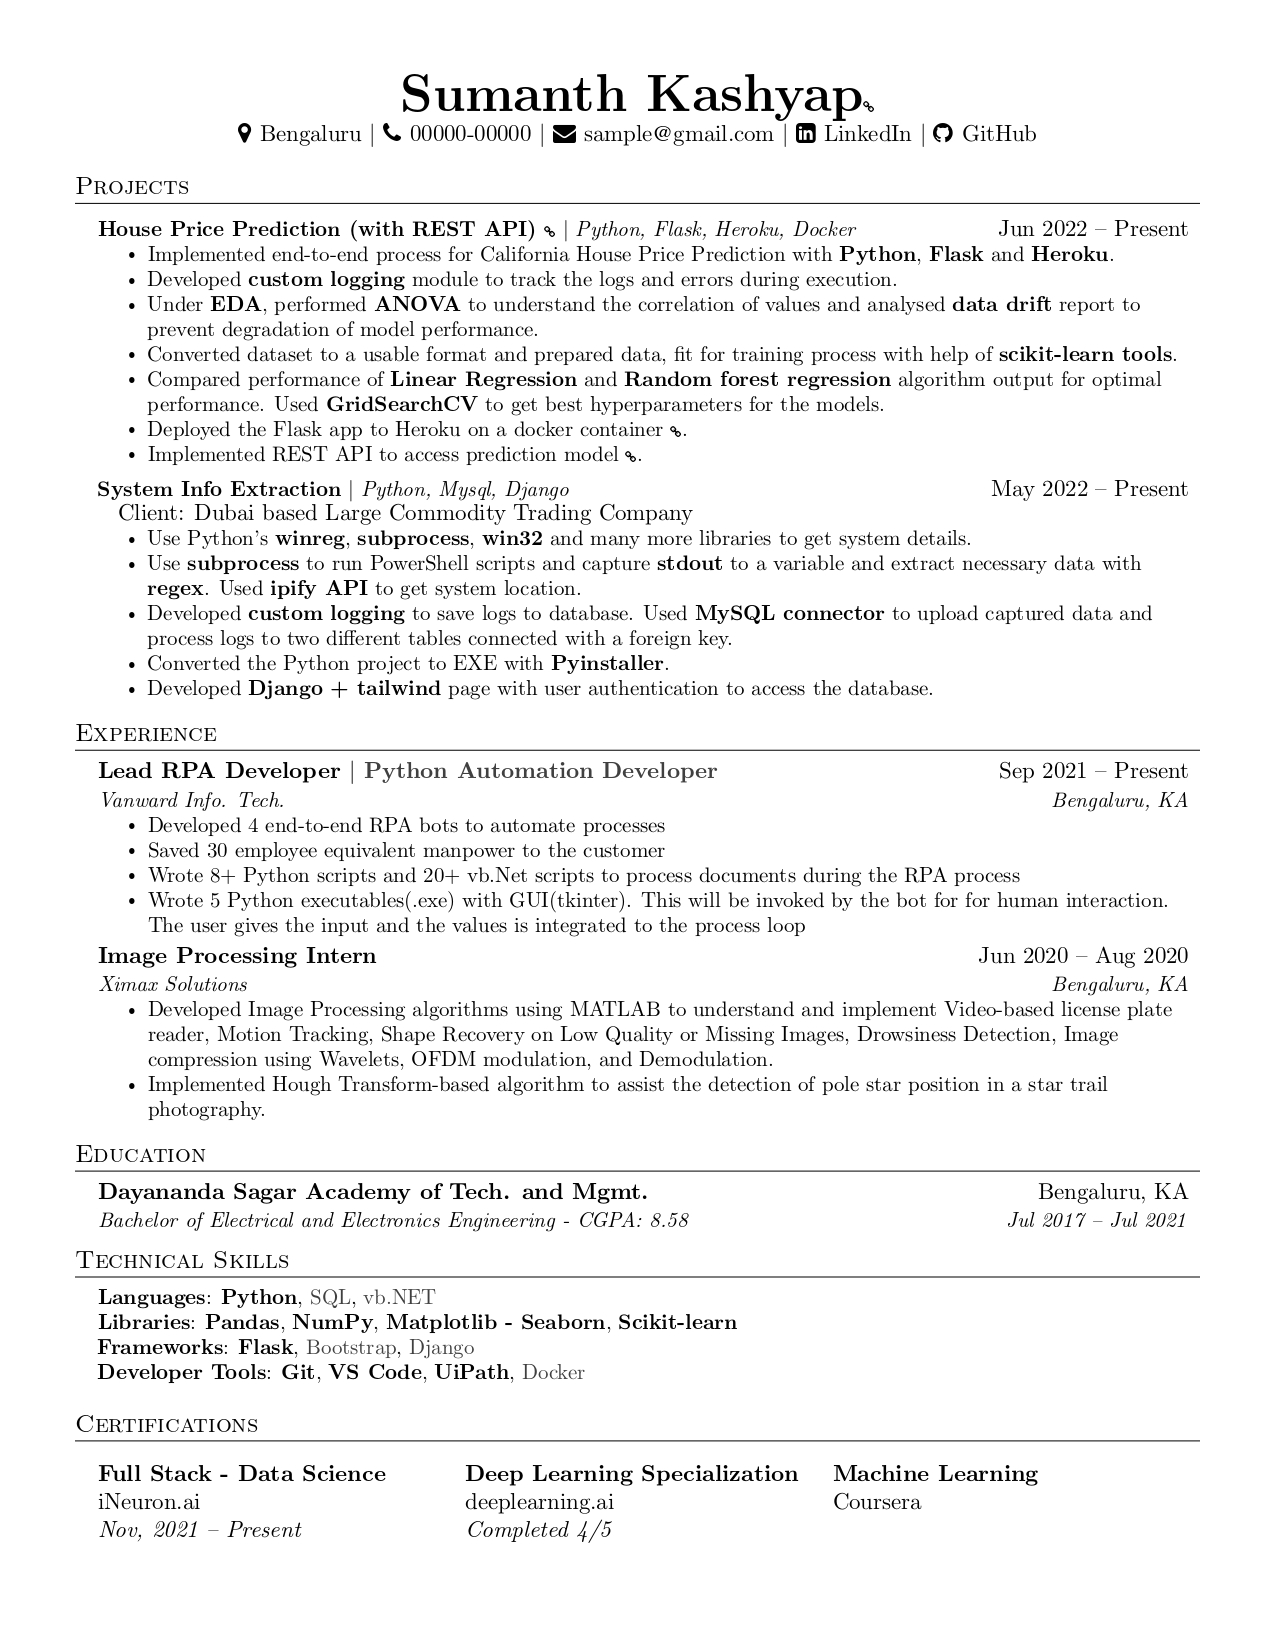
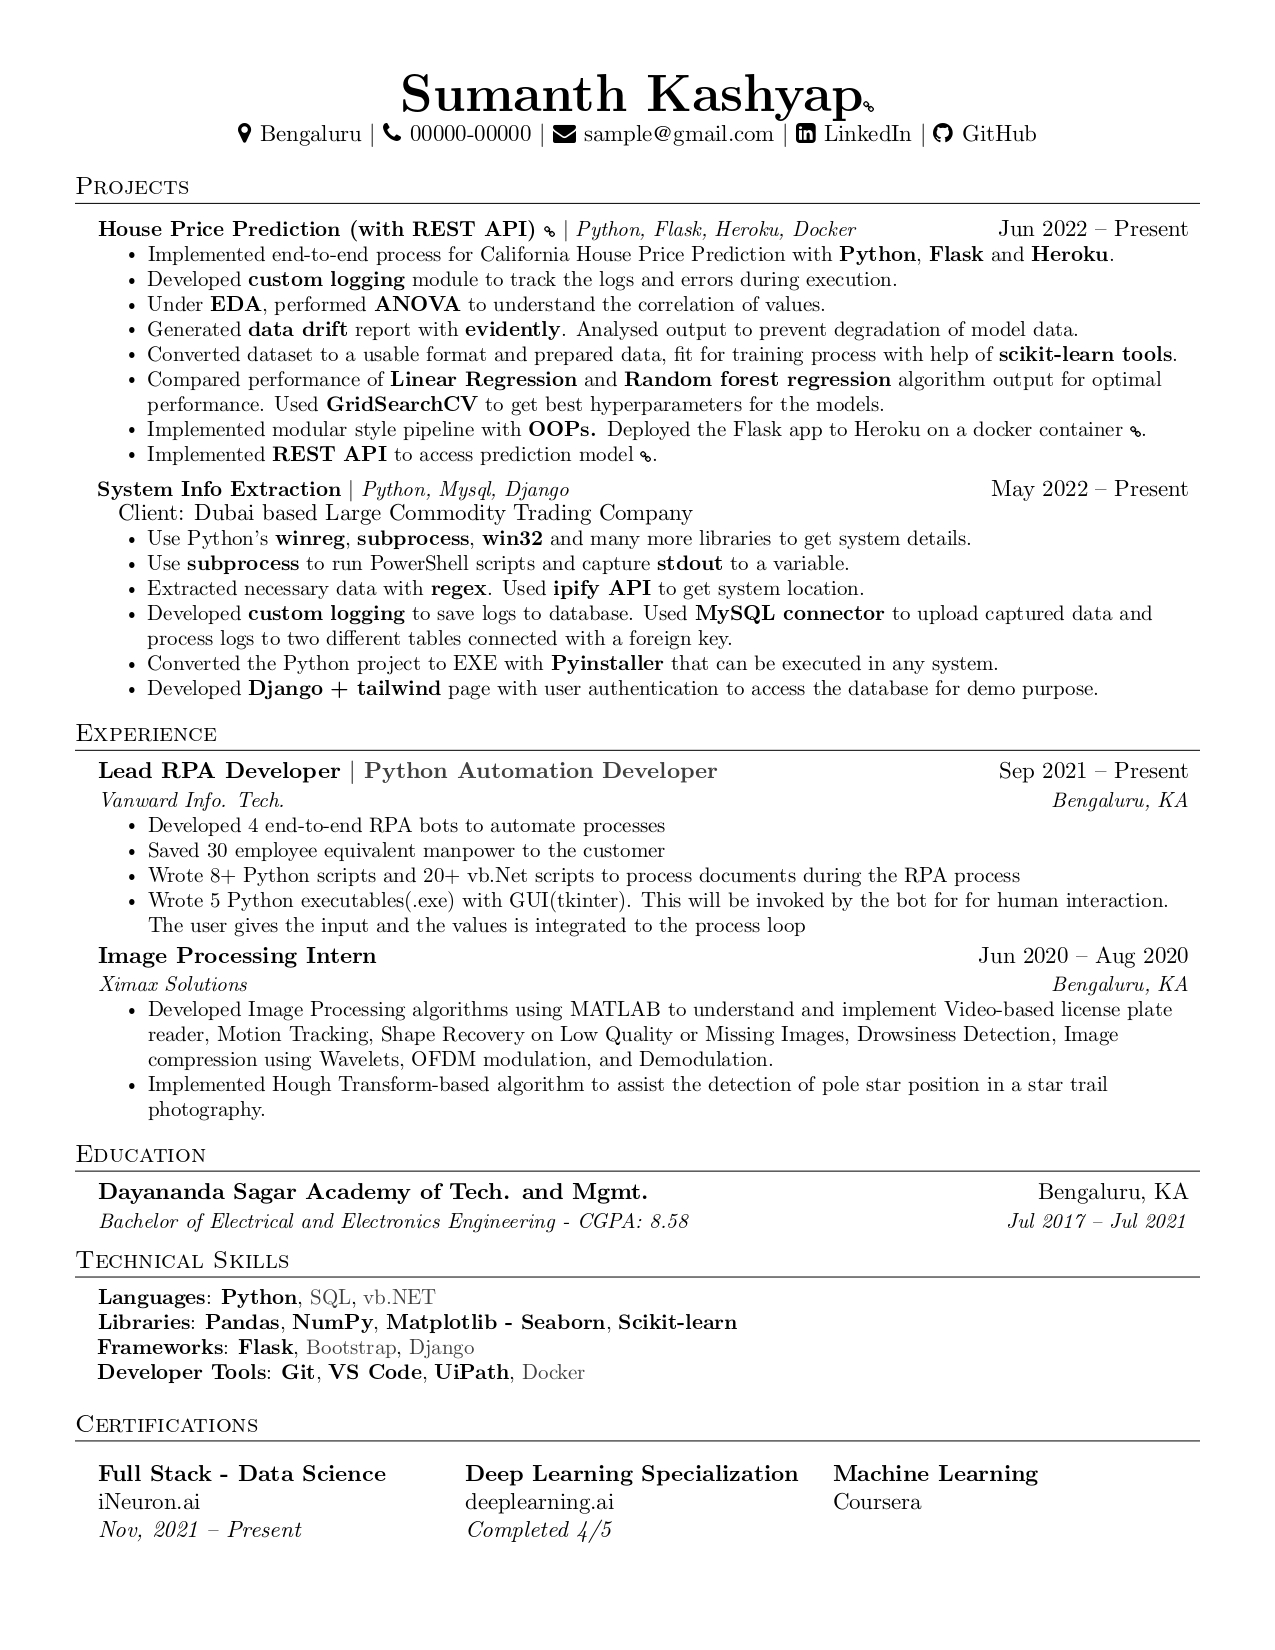
20220817

diff --git a/resume.tex b/resume.tex
@@ -24,7 +24,6 @@
 \usepackage{changepage}
 \input{glyphtounicode}
 
-
 %----------FONT OPTIONS----------
 \pagestyle{fancy}
 \fancyhf{} % clear all header and footer fields
@@ -126,11 +125,12 @@
           \resumeItemListStart
             \resumeItem{Implemented end-to-end process for California House Price Prediction with {\bfseries{Python}}, {\bfseries{Flask}} and {\bfseries{Heroku}}.}
             \resumeItem{Developed {\bfseries{custom logging}} module to track the logs and errors during execution.}
-            \resumeItem{Under {\bfseries{EDA}}, performed {\bfseries{ANOVA}} to understand the correlation of values and analysed {\bfseries{data drift}} report to prevent degradation of model performance.}
+            \resumeItem{Under {\bfseries{EDA}}, performed {\bfseries{ANOVA}} to understand the correlation of values.}
+            \resumeItem{Generated {\bfseries{data drift}} report with {\bfseries{evidently}}. Analysed output to prevent degradation of model data.}
             \resumeItem{Converted dataset to a usable format and prepared data, fit for training process with help of {\bfseries{scikit-learn tools}}.}
             \resumeItem{Compared performance of {\bfseries{Linear Regression}} and {\bfseries{Random forest regression}} algorithm output for optimal performance. Used {\bfseries{GridSearchCV}} to get best hyperparameters for the models.}
-            \resumeItem{\href{https://house-price-prediction-bhem.herokuapp.com/}{Deployed the Flask app to Heroku on a docker container {\tiny \faLink}}.}
-            \resumeItem{\href{https://house-price-prediction-bhem.herokuapp.com/docs/api}{Implemented REST API to access prediction model {\tiny \faLink}}.}
+            \resumeItem{{Implemented modular style pipeline with \bfseries{OOPs}. }\href{https://house-price-prediction-bhem.herokuapp.com/}{Deployed the Flask app to Heroku on a docker container {\tiny \faLink}}.}
+            \resumeItem{\href{https://house-price-prediction-bhem.herokuapp.com/docs/api}{Implemented {\bfseries{REST API}} to access prediction model {\tiny \faLink}}.}
           \resumeItemListEnd
       \resumeProjectHeading
           {\textbf{System Info Extraction} $|$ \emph{Python, Mysql, Django}}{May 2022 -- Present}
@@ -138,10 +138,11 @@
             \vspace{4pt}
             \begin{adjustwidth*}{-0.5cm}{-0.5cm}{Client: Dubai based Large Commodity Trading Company}\vspace{-2pt}\end{adjustwidth*}
             \resumeItem{Use Python's {\bfseries{winreg}}, {\bfseries{subprocess}}, {\bfseries{win32}} and many more libraries to get system details.}
-            \resumeItem{Use {\bfseries{subprocess}} to run PowerShell scripts and capture {\bfseries{stdout}} to a variable and extract necessary data with {\bfseries{regex}}. Used {\bfseries{ipify API}} to get system location.}
+            \resumeItem{Use {\bfseries{subprocess}} to run PowerShell scripts and capture {\bfseries{stdout}} to a variable.}
+            \resumeItem{Extracted necessary data with {\bfseries{regex}}. Used {\bfseries{ipify API}} to get system location.}
             \resumeItem{Developed {\bfseries{custom logging}} to save logs to database. Used {\bfseries{MySQL connector}} to upload captured data and process logs to two different tables connected with a foreign key.}
-            \resumeItem{Converted the Python project to EXE with {\bfseries{Pyinstaller}}.}
-            \resumeItem{Developed {\bfseries{Django + tailwind}} page with user authentication to access the database.}
+            \resumeItem{Converted the Python project to EXE with {\bfseries{Pyinstaller}} that can be executed in any system.}
+            \resumeItem{Developed {\bfseries{Django + tailwind}} page with user authentication to access the database for demo purpose.}
           \resumeItemListEnd
     \resumeSubHeadingListEnd
 
@@ -221,6 +222,5 @@
     Coursera
 \end{tabularx}
  \end{itemize}
-
 %-------------------------------------------
 \end{document}

diff --git a/README.md b/README.md
@@ -48,11 +48,6 @@ Process:
 
 Outcome: Reduced manpower wastage on repetitive manual tasks.
 
-\resumeItem{Prepare input file with vb.net in UiPath.}
-\resumeItem{Ask the user whether the database needs to be updated with GUI made with Python and Tkinter.}
-\resumeItem{After database update, process input files with database data.}
-\resumeItem{Upload files to the website with UiPath.}
-\resumeItem{Outcome: Reduced manpower wastage on repetitive manual tasks.}
 </details>
 
 <br>
